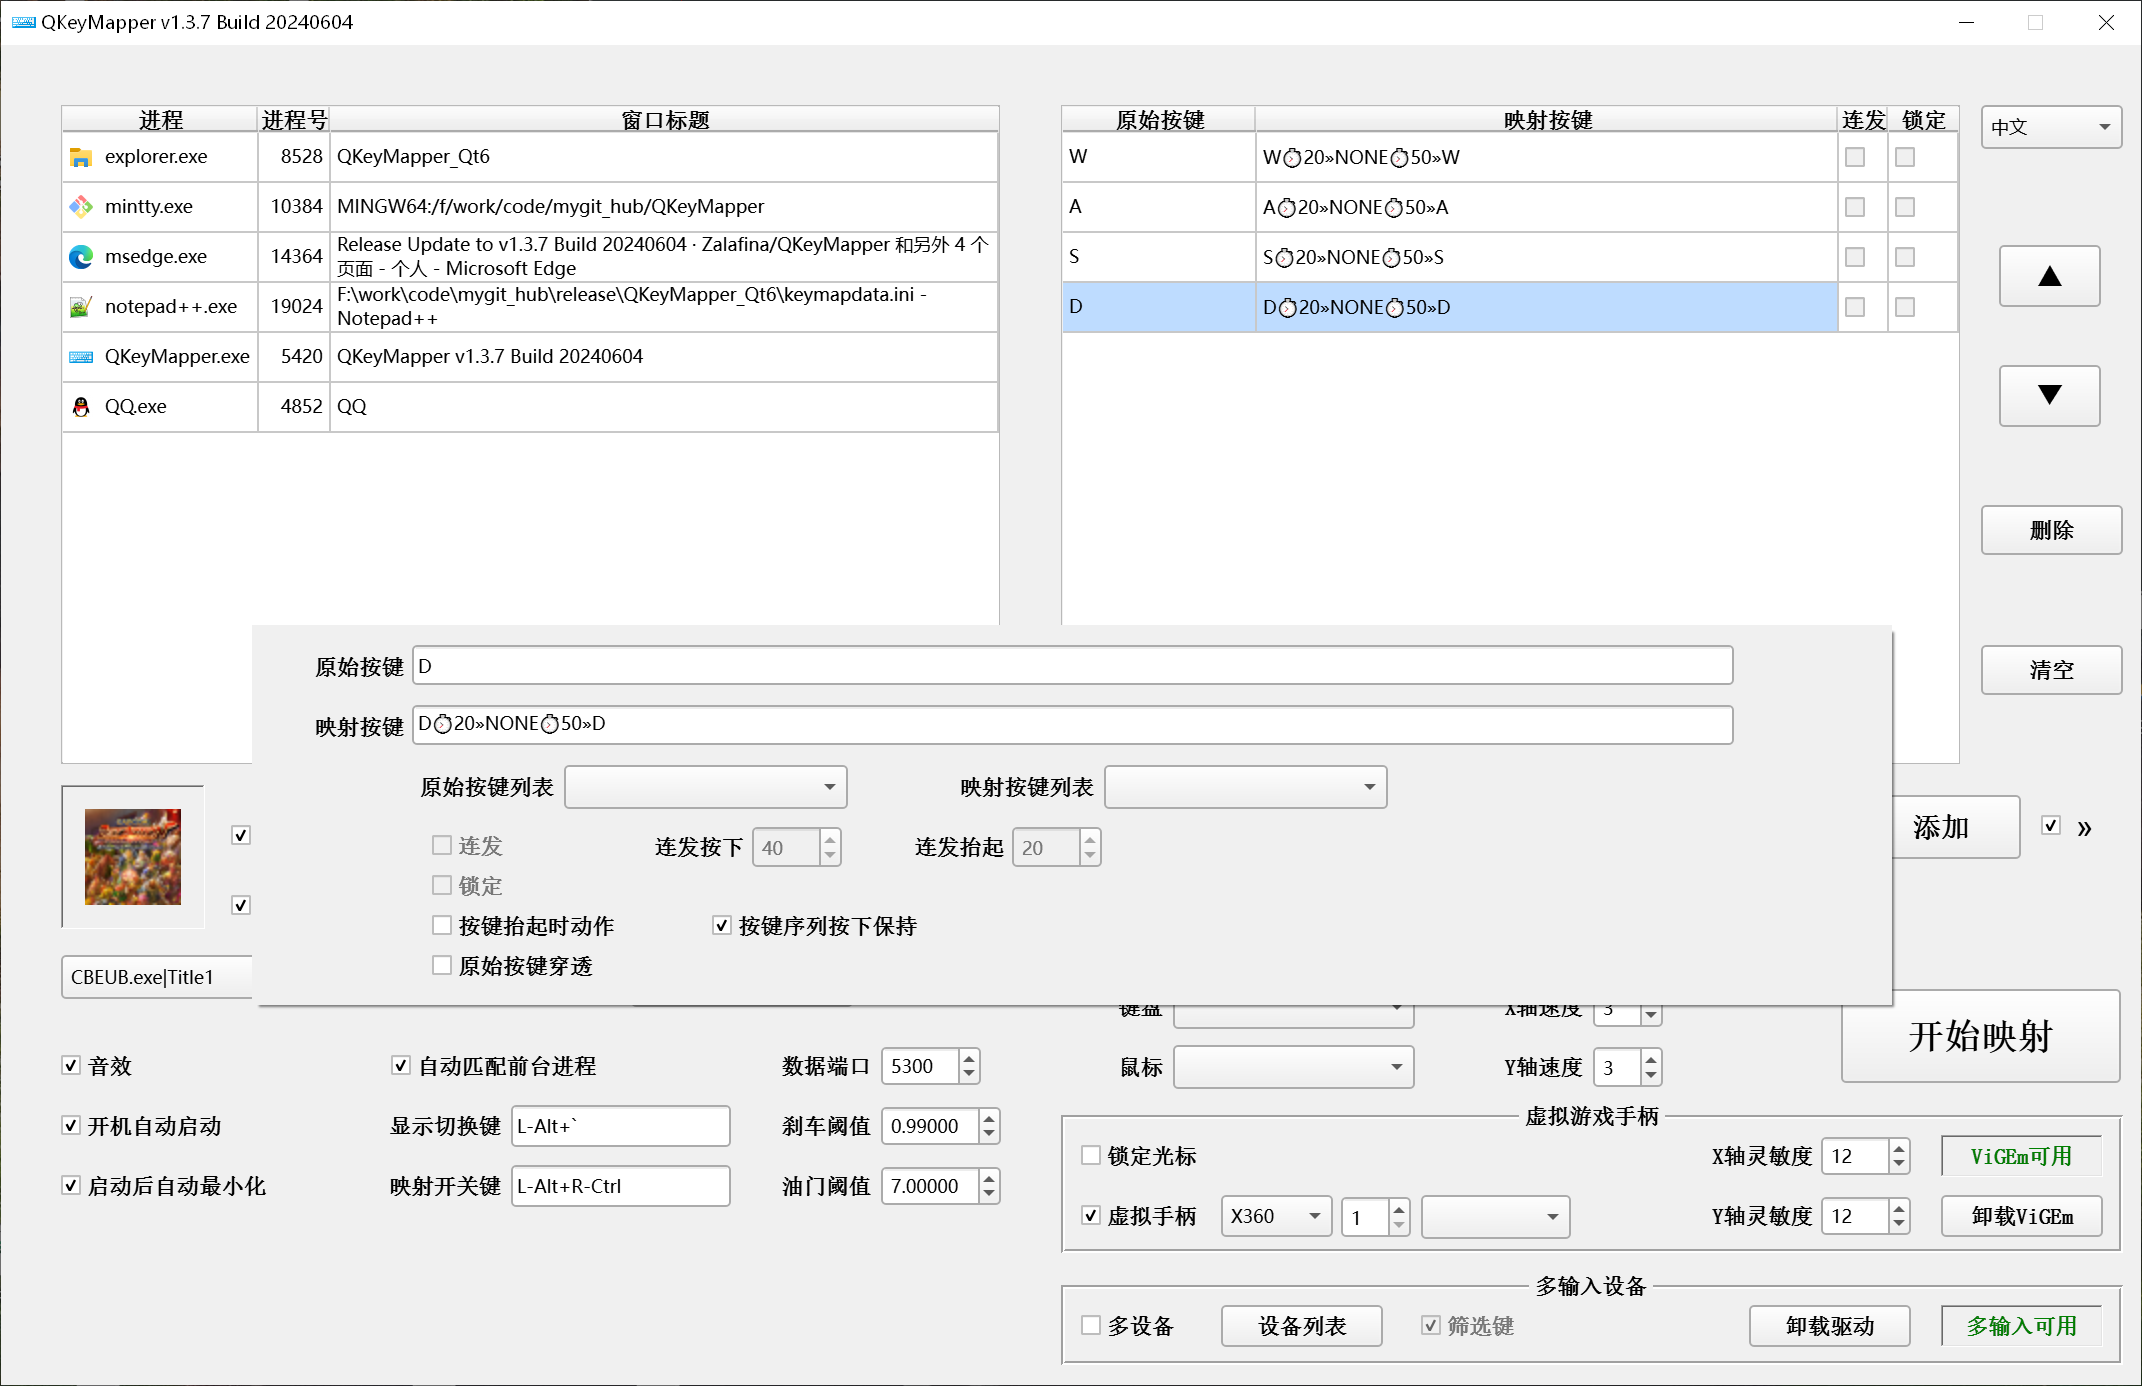
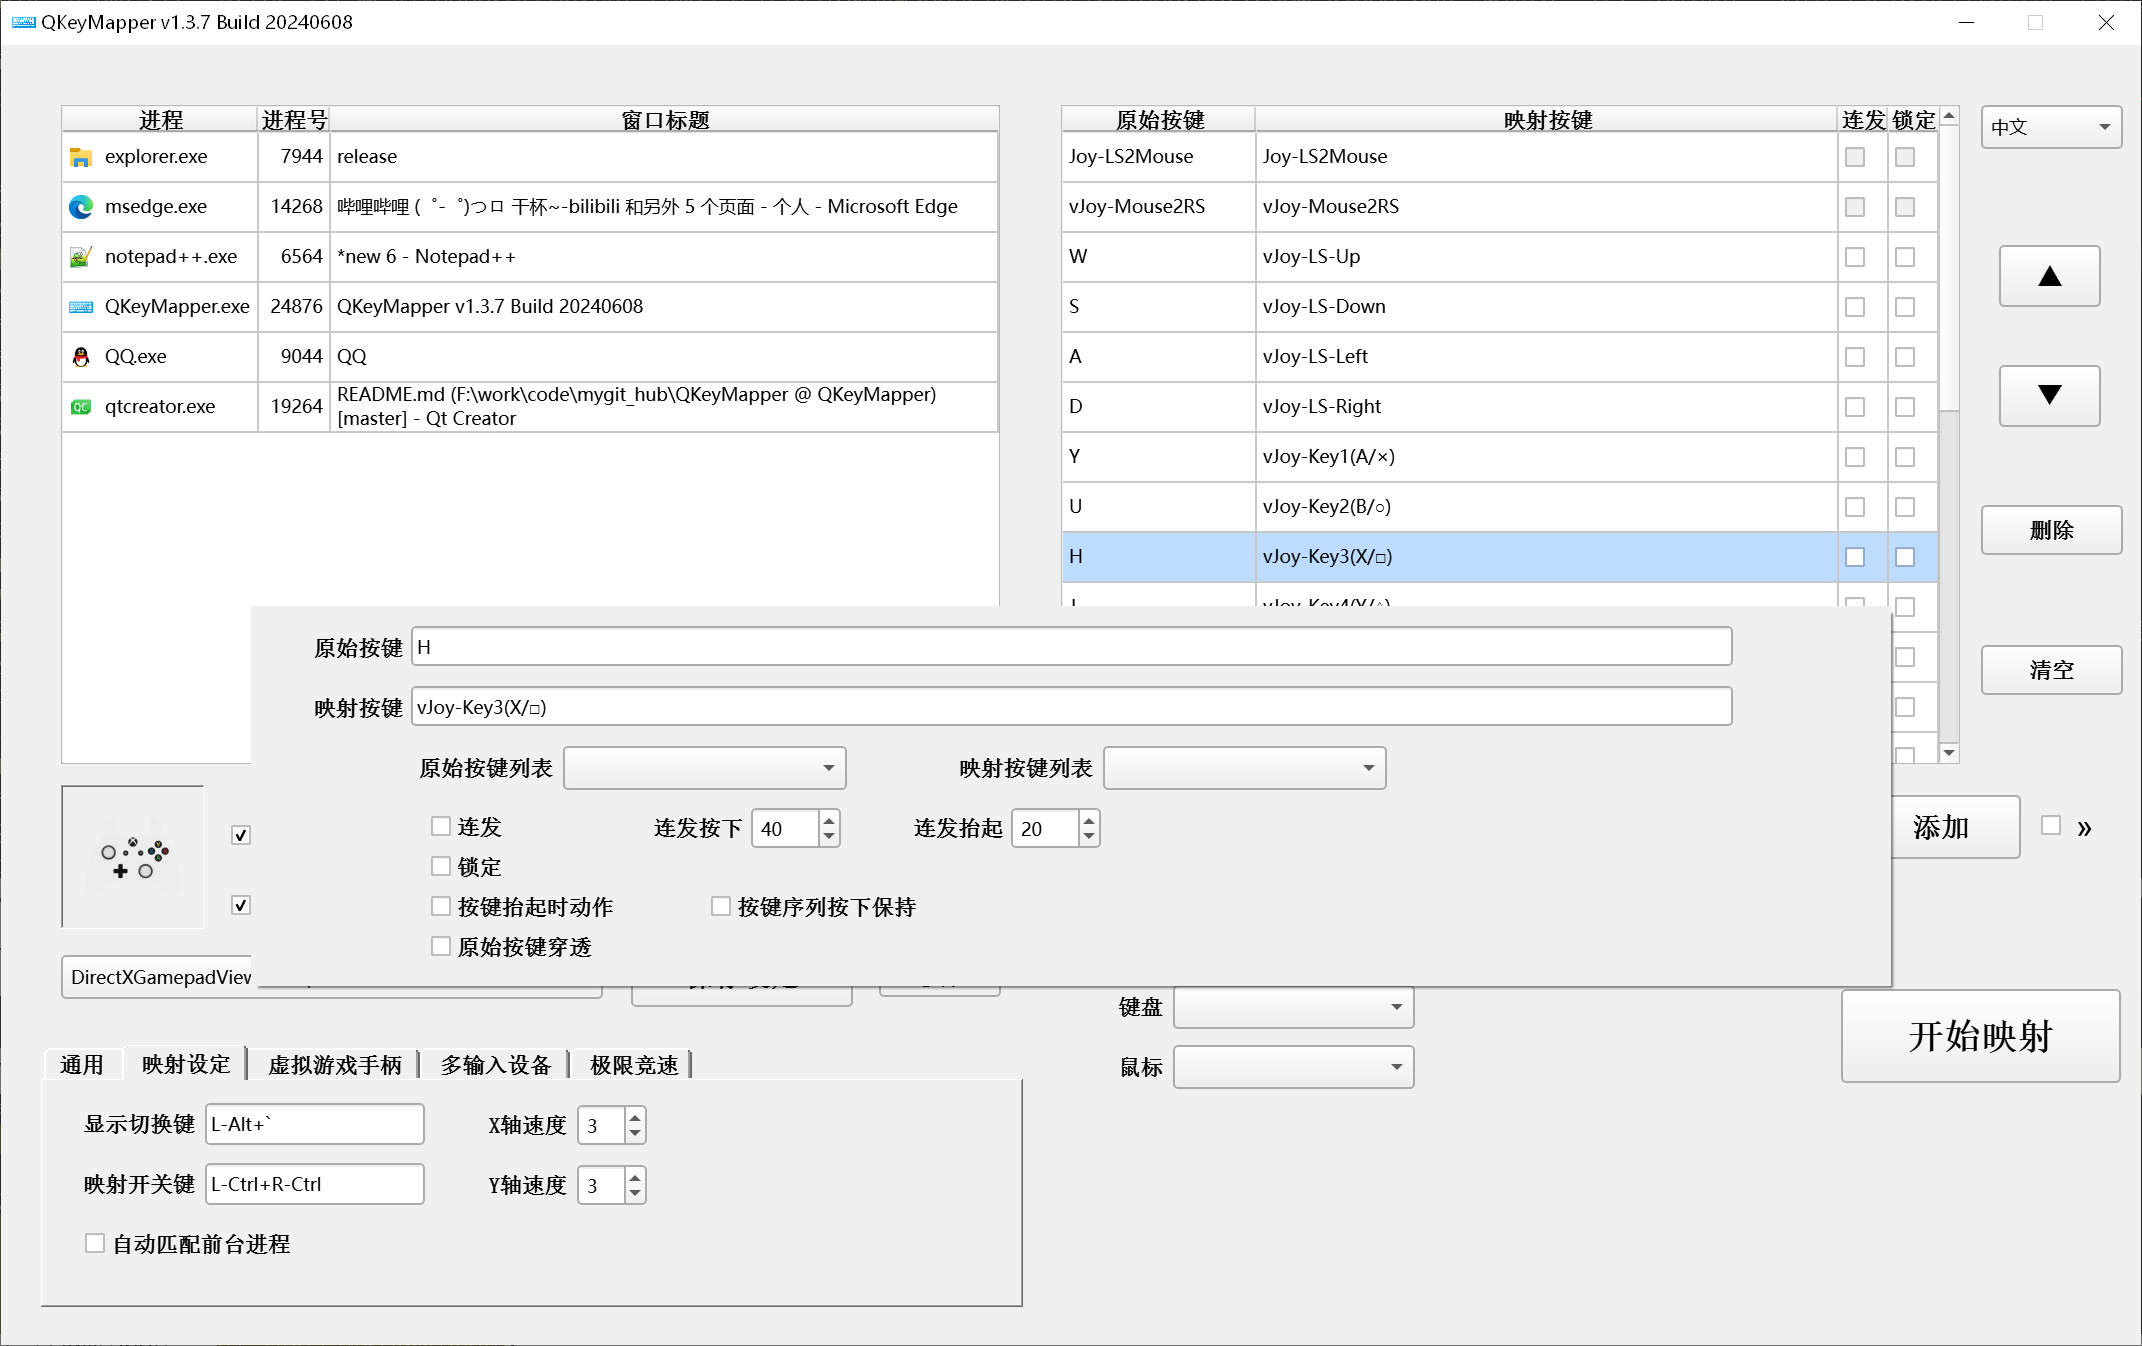
Update README.md

diff --git a/README.md b/README.md
@@ -33,6 +33,8 @@
 
 ---------------
 ### 新添加功能列表(根据更新时间降序排列)
+* v1.3.7(Build 20240608)
+    * 添加了设定"标签页"，将所有软件设定项分页归类到几个独立"标签页"中。标签页包括"通用"、"映射设定"、"虚拟游戏手柄"、"多输入设备"、"极限竞速"。
 * v1.3.7(Build 20240604)
     * 鼠标左键双击映射列表中某一行在窗口中央弹出此按键的映射设定对话框，其中可以更改 "连发"、"锁定"、"按键抬起时动作"、"原始按键穿透"状态。
     * 按键映射列表下方的 "连发按下"时间 和 "连发抬起"时间 数值调节框从主窗口移动到映射设定对话框中，每条按键映射的"连发按下"时间和"连发抬起"时间都可以单独进行设定和保存。
